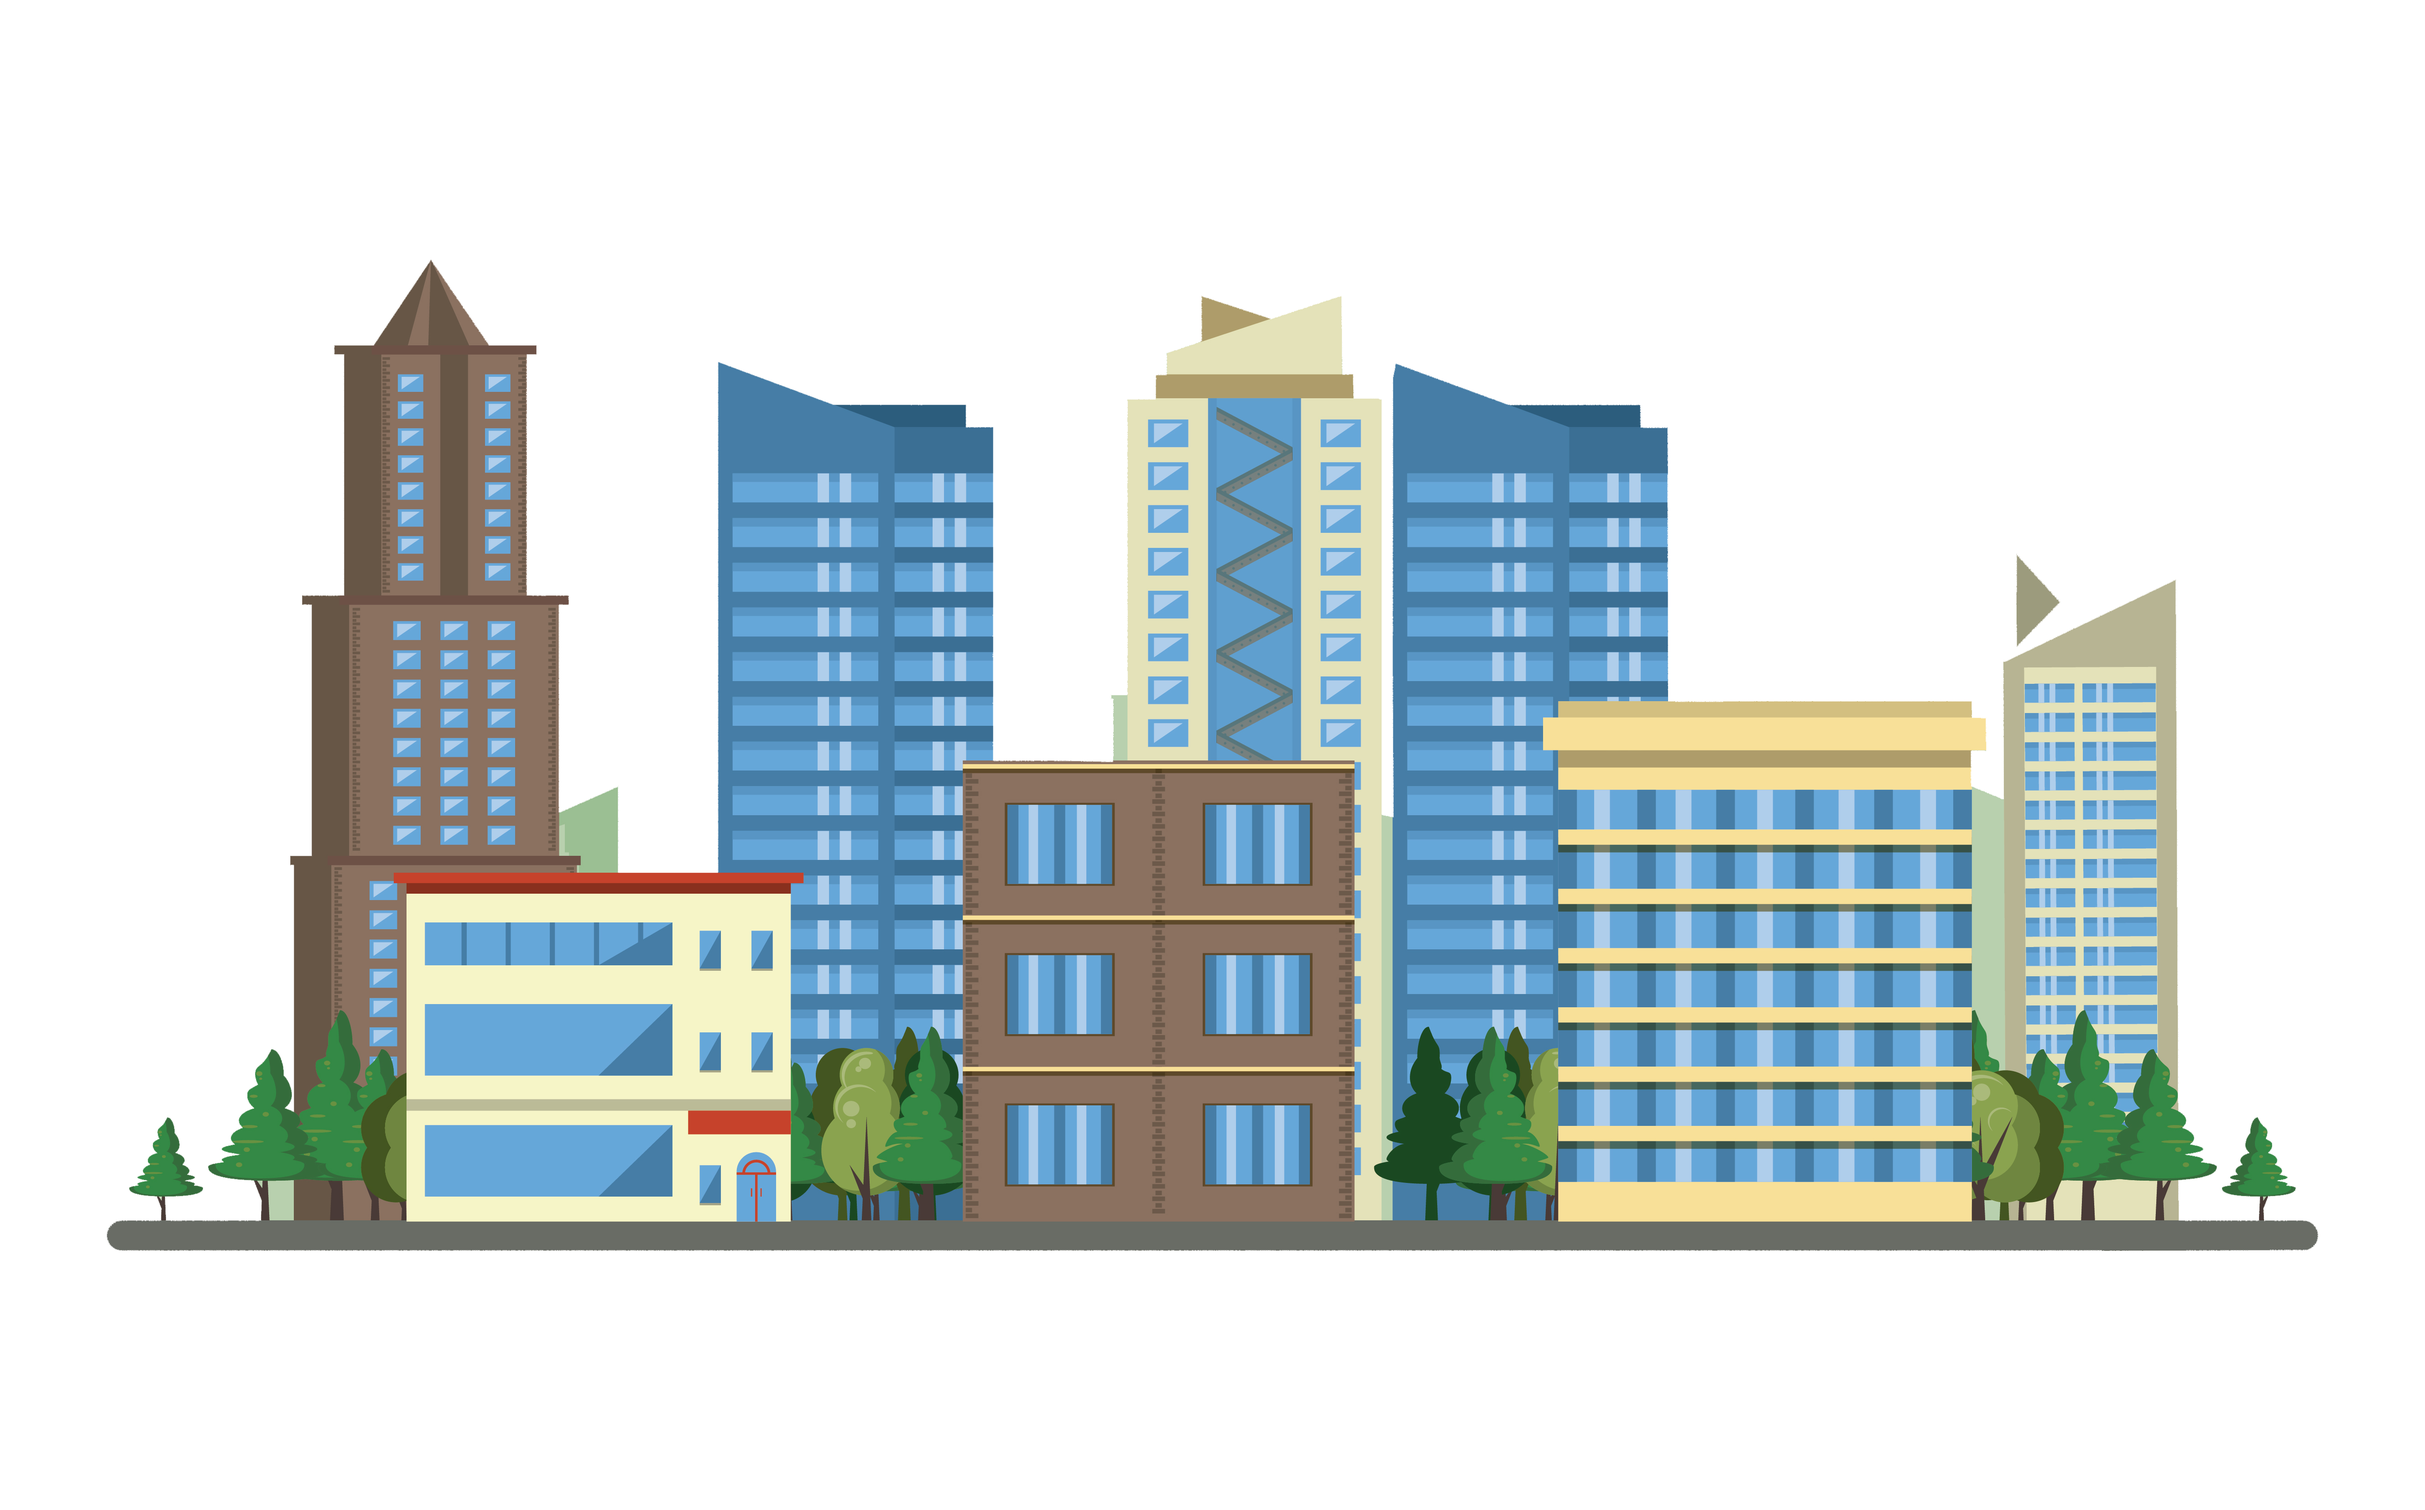
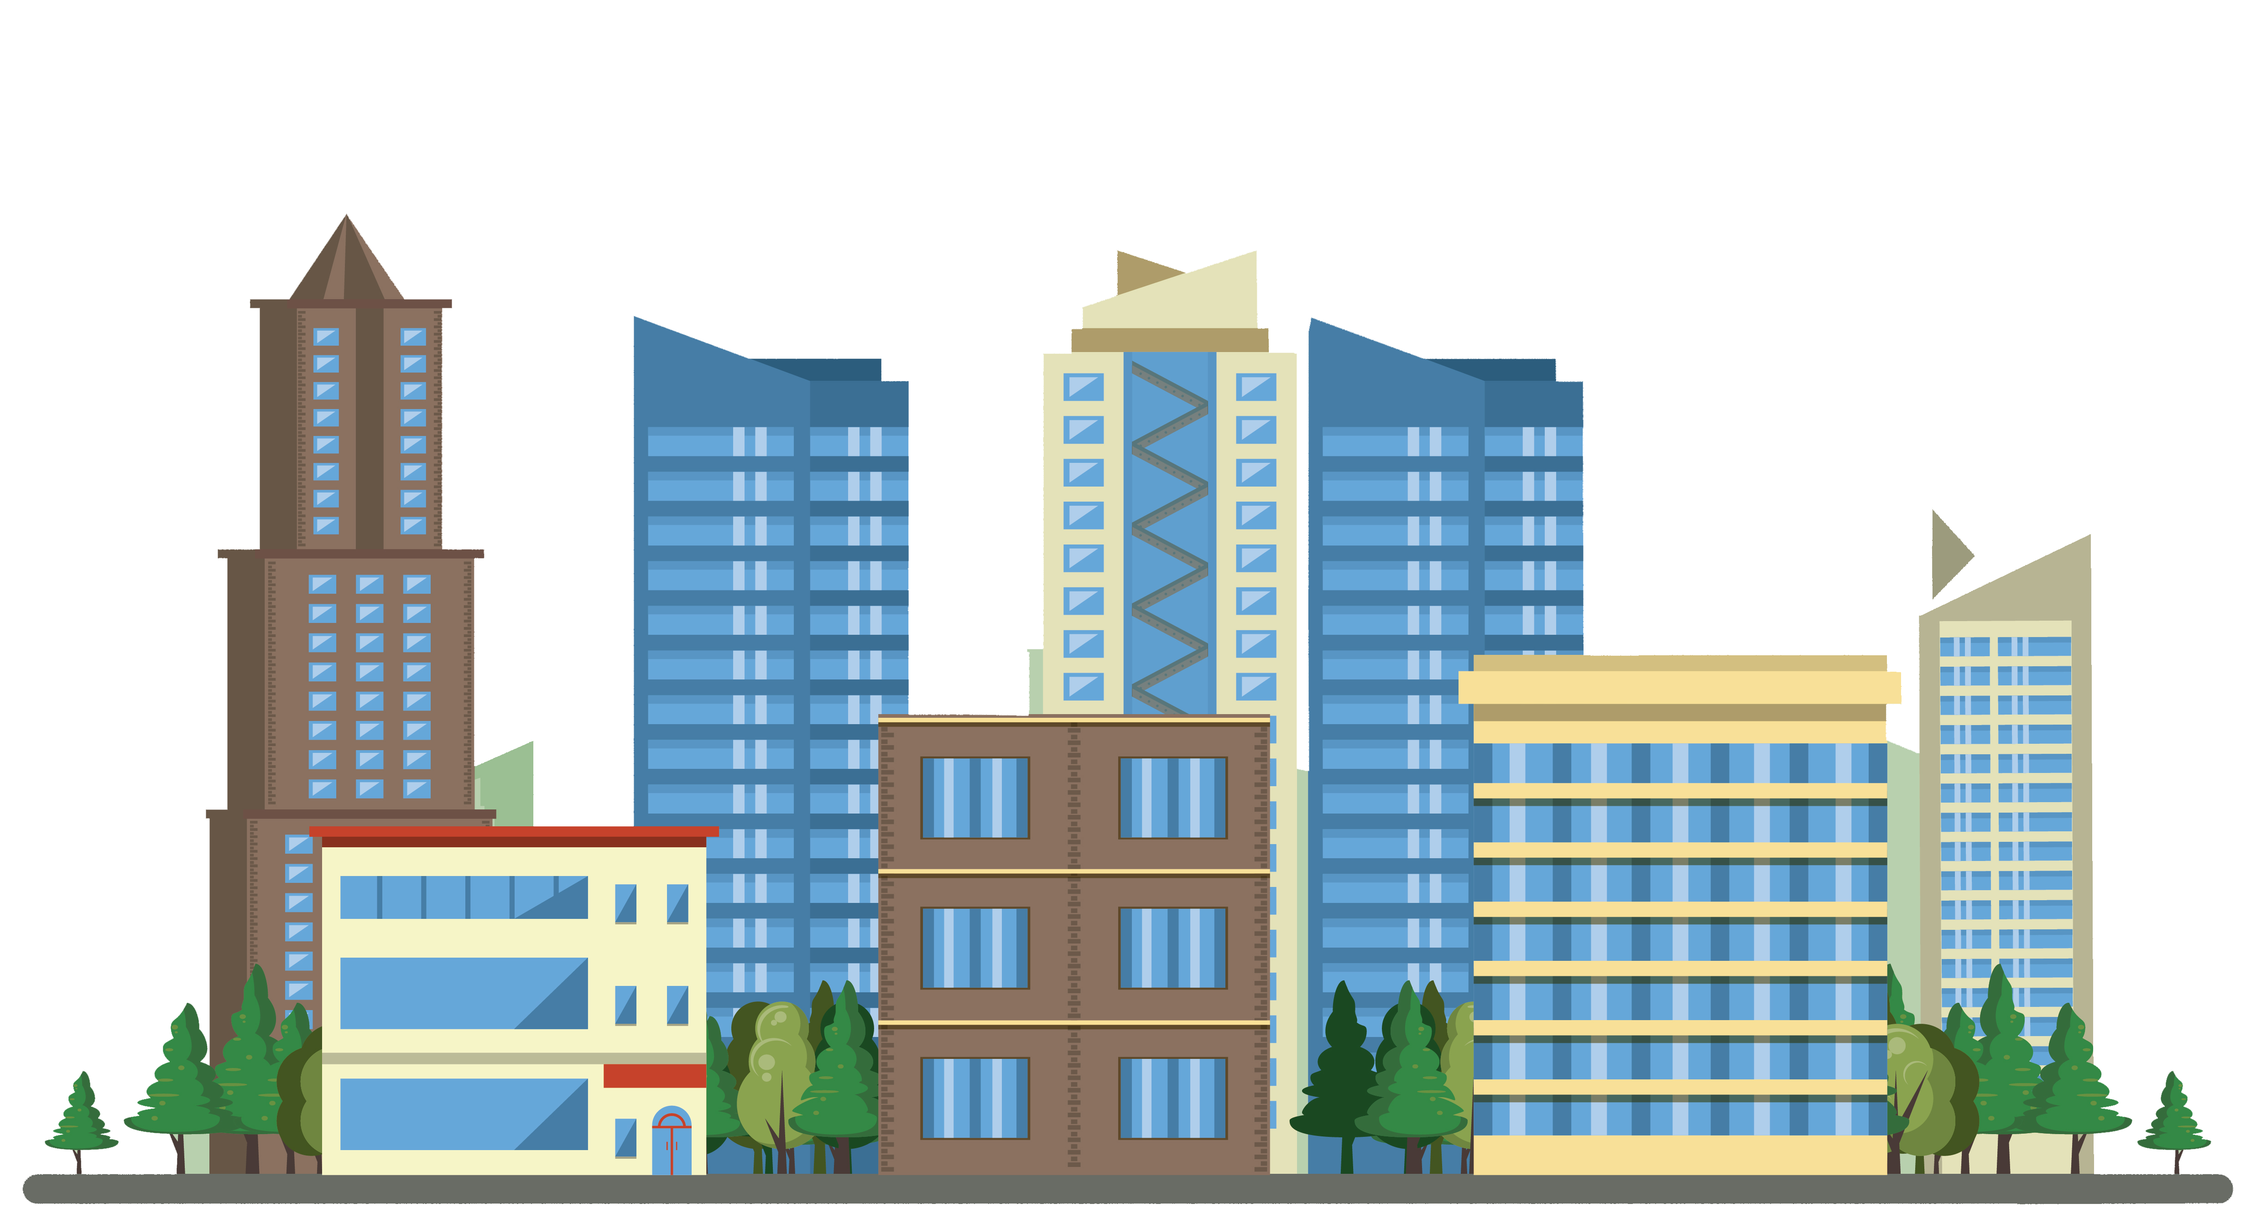
fixed background

diff --git a/Login-RegisterPage/login.html b/Login-RegisterPage/login.html
@@ -6,19 +6,17 @@
         <meta http-equiv="X-UA-Compatible" content="IE=edge">
         <title>Login</title>
         <link rel="stylesheet" type="text/css" href="login.css">
-        <link rel="apple-touch-icon" sizes="180x180" href="./apple-touch-icon.png">
-        <link rel="manifest" href="./site.webmanifest">
+        <link rel="apple-touch-icon" sizes="180x180" href="./Logo/apple-touch-icon.png">
+        <link rel="manifest" href="./Logo/site.webmanifest">
     </head>
     <body>
         <div class="home">
             <link rel="stylesheet" href="https://cdnjs.cloudflare.com/ajax/libs/font-awesome/4.7.0/css/font-awesome.min.css">
             <button class="btn"><i class="fa fa-home"></i> Home</button>
         </div>
-        <div id="backgroundZone">
-            <div id="bg">
-            </div>
-        </div>
-        
+
+        <div id="bg"></div>
+    
         <div class="zone">
             <div class="container">
                 <div class="Login">
@@ -37,7 +35,7 @@
                             <h3>Sign into your account</h3>
                             <input type="text" placeholder="Username">
                             <input type="password" placeholder="Password">
-                            <a href="../HomePage/HomePage.php"></a><input type="submit" value="Login">
+                            <a href="../HomePage/HomePage.html"></a><input type="submit" value="Login">
                             <a href="https://accounts.google.com/signin/v2/identifier?flowName=GlifWebSignIn&flowEntry=ServiceLogin"><input type="button" value="Login with Google"></a>
                             <a href="https://ro-ro.facebook.com/login.php?next=https%3A%2F%2Fro-ro.facebook.com%2Fprivacy%2Fconsent%2Fuser_cookie_choice%2F%3Fsource%3Dpft_user_cookie_choice"><input type="button" value="Login with Facebook"></a>
                             <a href="#" class="forgot">Forgot Password</a>

diff --git a/Login-RegisterPage/login.css b/Login-RegisterPage/login.css
@@ -41,15 +41,10 @@ body
 {
     background-color: Black;
 }
-.backgroundZone
-{
-    position: relative;
-    display: flex;
-    justify-content: flex-end;
-}
+
 #bg
 {
-    position: relative;
+    position: fixed;
     left: 0;
     bottom: 0;
     width: 100%;
@@ -57,6 +52,8 @@ body
     background: url(cladiri.png);
     background-size: 100%;
     background-repeat: no-repeat;
+    background-position: bottom;
+    z-index: -1;
 }
 body.active
 {
